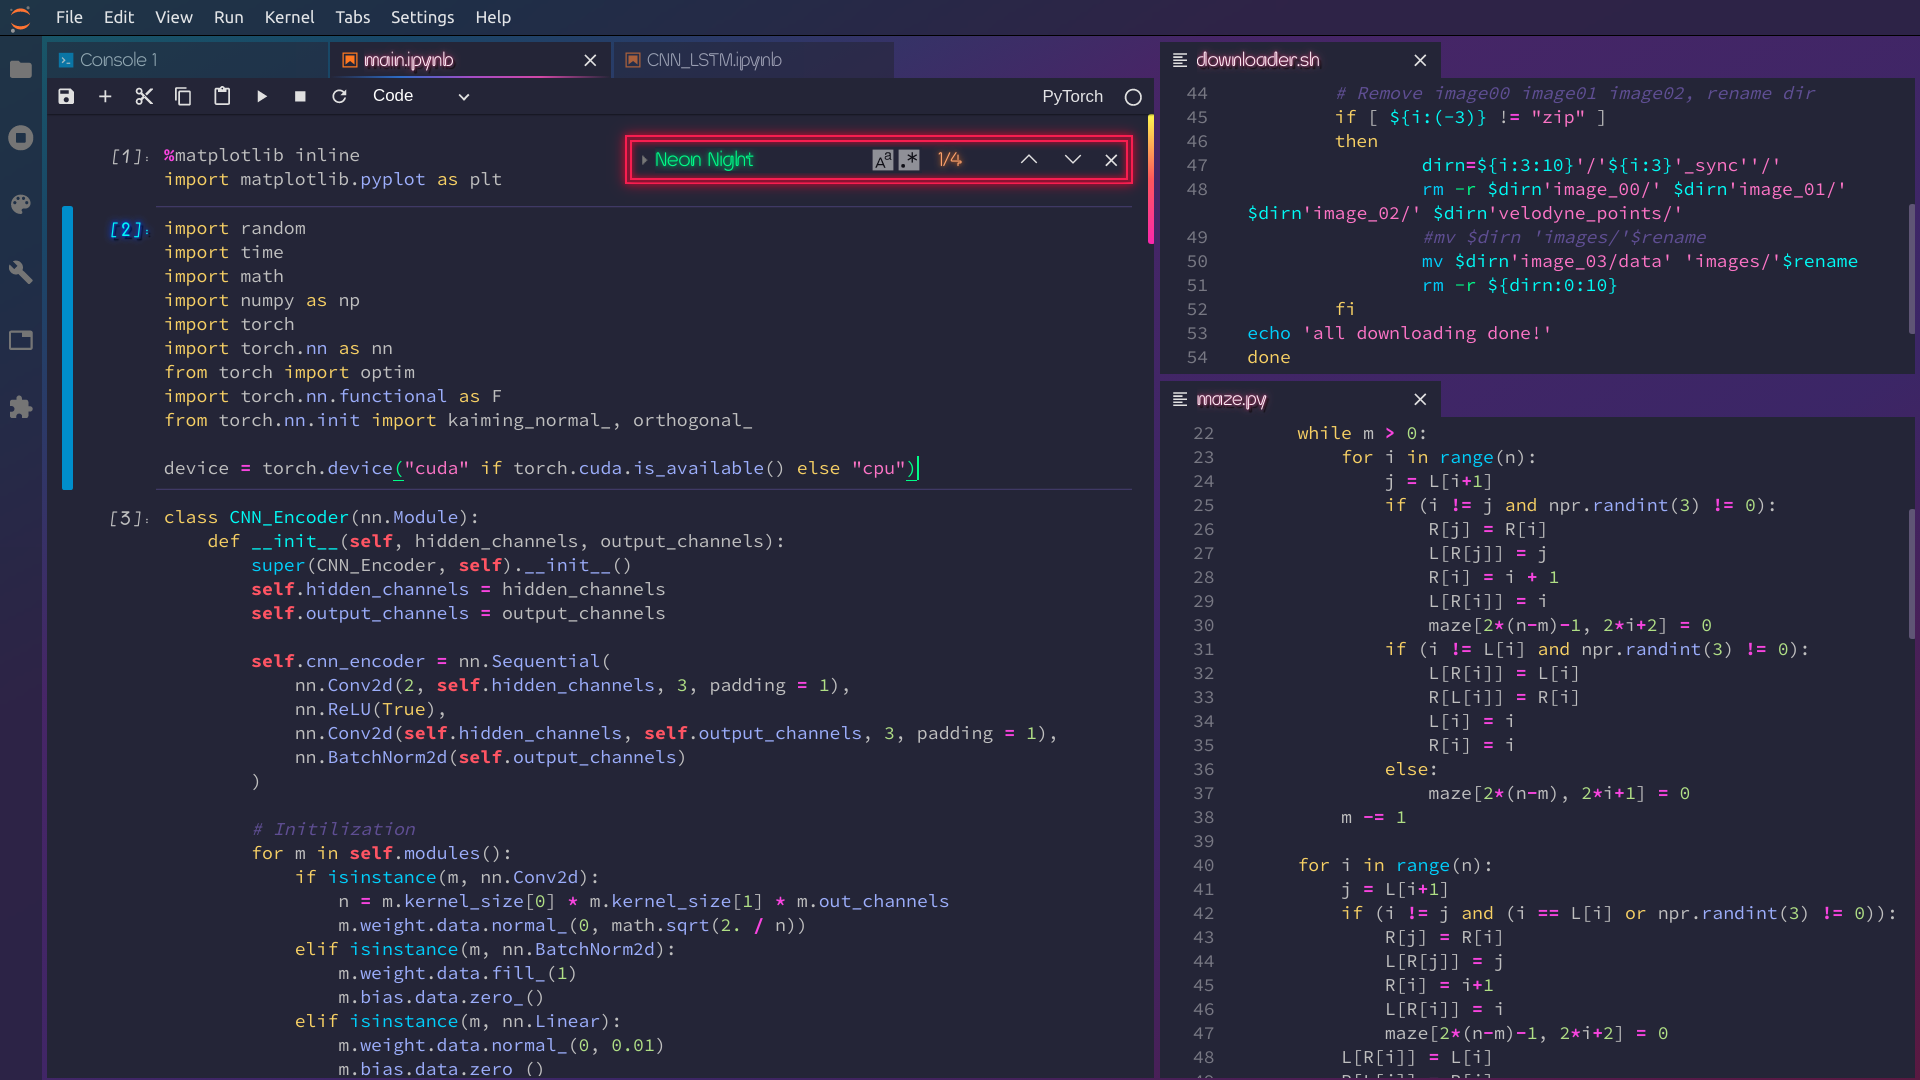
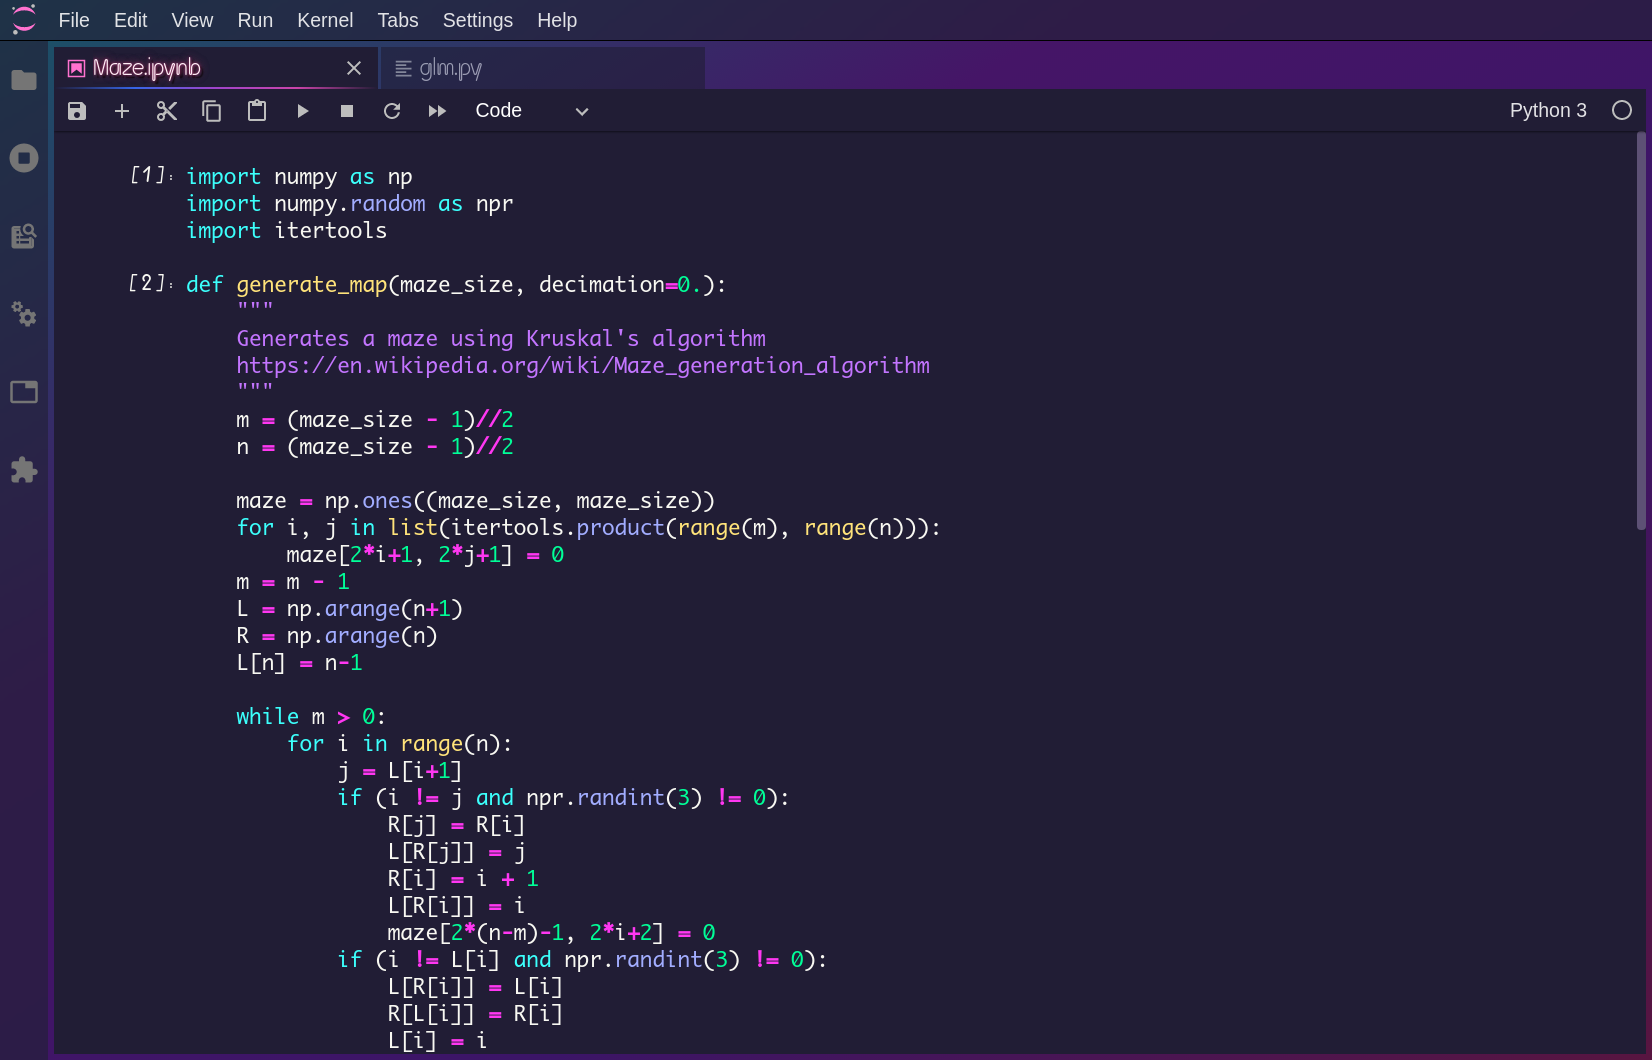
New color scheme

diff --git a/style/variables.css b/style/variables.css
@@ -27,25 +27,25 @@ all of MD as it is not optimized for dense, information rich UIs.
 :root {
   /* Basic color scheme*/
    --neon-night-red: #ff5761;
-   --neon-night-blue0: #00ccff;
-   --neon-night-blue1: #008bce;
-   --neon-night-yellow: #ecd167;
-   --neon-night-green0:#00ff80;
-   --neon-night-green1:#b3e17f;
-   --neon-night-cyan:#36f9f6;
-   --neon-night-peach0: #ff63a6;
-   --neon-night-peach1: #cb4d8e;
+   --neon-night-blue0: #51cdff;
+   --neon-night-blue1: #00acff;
+   --neon-night-yellow: #ffe37a;
+   --neon-night-green0:#00ff98;
+   --neon-night-green1:#c4f68c;
+   --neon-night-cyan:#3cfffc;
+   --neon-night-peach: #ff63a6;
    --neon-night-pink: #ff8c8c;
-   --neon-night-purple0:#ef38e3;
+   --neon-night-purple0:#ff37f2;
    --neon-night-purple1:#a2adff;
    --neon-night-purple2:#ff72cf;
    --neon-night-purple3:#DF81FC;
-   --neon-night-purple4:#604a96;
+   --neon-night-purple4:#696092;
+   --neon-night-purple5:#c375ff;
    --neon-night-orange:#ff9246;
-   --neon-night-fg0:#bfbfbf;
-   --neon-night-bg0: #26243d;
+   --neon-night-fg0:#F8F8F2;
+   --neon-night-bg0: #211d35;
    --neon-night-bg1: #302a46;
-   --neon-night-bg2: hsl(250, 23%, 25%);
+   --neon-night-bg2: #3a2e6b;
 
    --neon-night-text-shadow0: 0 0 2px #0225ff, 0 0 6px #0225ff, 0 0 6px #0225ff, 2px 2px 1px #000;
    --neon-night-text-shadow1: 0 0 2px #c10165, 0 0 6px #c10165, 0 0 6px #c10165, 2px 2px 1px #000;
@@ -53,7 +53,7 @@ all of MD as it is not optimized for dense, information rich UIs.
    --jp-private-horizontal-tab-height: 28px;
 
   /* Elevation
-   *
+   *#26243d
    * We style box-shadows using Material Design's idea of elevation. These particular numbers are taken from here:
    *
    * https://github.com/material-components/material-components-web
@@ -224,7 +224,7 @@ all of MD as it is not optimized for dense, information rich UIs.
    */
 
   --jp-layout-color0: var(--neon-night-bg0);
-  --jp-layout-color1: #211d35;
+  --jp-layout-color1: var(--neon-night-bg0);
   --jp-layout-color2: var(--neon-night-bg2);
   --jp-layout-color3: var(--neon-night-bg2);
   --jp-layout-color4: var(--neon-night-orange);
@@ -244,7 +244,7 @@ all of MD as it is not optimized for dense, information rich UIs.
   /* Brand/accent */
 
   --jp-brand-color0: var(--neon-night-blue0);
-  --jp-brand-color1: #3a2e6b;
+  --jp-brand-color1: var(--neon-night-bg2);
   --jp-brand-color2: var(--md-blue-300);
   --jp-brand-color3: var(--md-blue-100);
   --jp-brand-color4: var(--md-blue-50);
@@ -258,8 +258,8 @@ all of MD as it is not optimized for dense, information rich UIs.
 
   --jp-warn-color0: var(--neon-night-purple2);
   --jp-warn-color1: var(--neon-night-red);
-  --jp-warn-color2: var(--neon-night-peach0);
-  --jp-warn-color3: var(--neon-night-peach1);
+  --jp-warn-color2: var(--neon-night-peach);
+  --jp-warn-color3: var(--neon-night-peach);
 
   --jp-error-color0: var(--md-red-700);
   --jp-error-color1: var(--md-red-500);
@@ -345,13 +345,13 @@ all of MD as it is not optimized for dense, information rich UIs.
 
   /* Input field styles */
 
-  --jp-input-box-shadow: inset 0px -1px 0 0px #7b5ccc50, inset 0px 1px 0 0px #7b5ccc50;
+  --jp-input-box-shadow: inset 0px -1px 0 0px var(--jp-mirror-editor-comment-color), inset 0px 1px 0 0px var(--jp-mirror-editor-comment-color);
   --jp-input-active-background: var(--neon-night-bg1);
   --jp-input-hover-background: var(--neon-night-bg1);
   --jp-input-background: var(--neon-night-bg1);
   --jp-input-border-color: var(--jp-border-color1);
   --jp-input-active-border-color: var(--jp-brand-color1);
-  --jp-input-active-box-shadow-color: inset 0px -1px 0 0px #7b5ccc50, inset 0px 1px 0 0px #7b5ccc50;
+  --jp-input-active-box-shadow-color: inset 0px -1px 0 0px var(--jp-mirror-editor-comment-color), inset 0px 1px 0 0px var(--jp-mirror-editor-comment-color);
 
   /* General editor styles */
 
@@ -361,28 +361,28 @@ all of MD as it is not optimized for dense, information rich UIs.
 
   /* Code mirror specific styles */
 
-  --jp-mirror-editor-keyword-color: var(--neon-night-yellow);
+  --jp-mirror-editor-keyword-color: var(--neon-night-cyan);
   --jp-mirror-editor-atom-color: var(--neon-night-yellow);
-  --jp-mirror-editor-number-color: var(--neon-night-green1);
-  --jp-mirror-editor-def-color: var(--neon-night-cyan);
+  --jp-mirror-editor-number-color: var(--neon-night-green0);
+  --jp-mirror-editor-def-color: var(--neon-night-yellow);
   --jp-mirror-editor-variable-color: var(--neon-night-fg0);
-  --jp-mirror-editor-variable-2-color: var(--neon-night-pink);
+  --jp-mirror-editor-variable-2-color: var(--neon-night-purple2);
   --jp-mirror-editor-variable-3-color: var(--neon-night-orange);
   --jp-mirror-editor-punctuation-color: var(--neon-night-purple1);
   --jp-mirror-editor-property-color: var(--neon-night-purple1);
   --jp-mirror-editor-operator-color: var(--neon-night-purple0);
   --jp-mirror-editor-comment-color: var(--neon-night-purple4);
-  --jp-mirror-editor-string-color: var(--neon-night-purple2);
-  --jp-mirror-editor-string-2-color:#b870ff;
-  --jp-mirror-editor-meta-color: #b870ff;
-  --jp-mirror-editor-qualifier-color: var(--neon-night-peach0);
-  --jp-mirror-editor-builtin-color: var(--neon-night-blue0);
+  --jp-mirror-editor-string-color: var(--neon-night-purple5);
+  --jp-mirror-editor-string-2-color:var(--neon-night-green1);
+  --jp-mirror-editor-meta-color: var(--neon-night-purple0);
+  --jp-mirror-editor-qualifier-color: var(--neon-night-pink);
+  --jp-mirror-editor-builtin-color: var(--neon-night-yellow);
   --jp-mirror-editor-bracket-color: var(--neon-night-green0);
   --jp-mirror-editor-tag-color: var(--neon-night-cyan);
   --jp-mirror-editor-attribute-color: var(--neon-night-green0);
-  --jp-mirror-editor-header-color: var(--neon-night-peach0);
+  --jp-mirror-editor-header-color: var(--neon-night-purple2);
   --jp-mirror-editor-quote-color: var(--neon-night-cyan);
-  --jp-mirror-editor-link-color: var(--neon-night-purple1);
+  --jp-mirror-editor-link-color: var(--neon-night-blue0);
   --jp-mirror-editor-error-color: var(--neon-night-red);
   --jp-mirror-editor-hr-color: #999;
 

diff --git a/style/style.css b/style/style.css
@@ -95,8 +95,7 @@ div.CodeMirror span.CodeMirror-nonmatchingbracket {
   font-weight: normal;
 }
 
-.jp-Cell .cm-s-jupyter span.cm-variable-2 {
-  color: var(--neon-night-red);
+.cm-s-jupyter span.cm-variable-2 {
   font-weight: bold;
 }
 
@@ -123,6 +122,9 @@ div.CodeMirror span.CodeMirror-nonmatchingbracket {
   margin-top: 8px;
 }
 
+.jp-CodeCell.jp-mod-outputsScrolled .jp-Cell-outputArea {
+  box-shadow: none;
+}
 
 /* Notebook prompt */
 .jp-InputPrompt {
@@ -165,7 +167,7 @@ div.CodeMirror span.CodeMirror-nonmatchingbracket {
 .jp-Cell.jp-mod-active .jp-OutputCollapser.jp-Cell-outputCollapser,
 .jp-OutputCollapser.jp-Cell-outputCollapser.jp-Collapser, 
 .jp-OutputCollapser.jp-Cell-outputCollapser.jp-Collapser:hover{
-  background: var(--neon-night-peach1);
+  background: var(--neon-night-purple2);
 }
 
 .jp-Cell.jp-mod-active .jp-InputCollapser.jp-Cell-inputCollapser,
@@ -185,16 +187,16 @@ div.CodeMirror span.CodeMirror-nonmatchingbracket {
   box-shadow: 0 0 1px, 0 0 15px #c10165, 0 0 5px 0.1px #c10165, inset 0 0 1px 0.2px #c10165;
 }
 
-.cm-s-jupyter span.cm-def {
+span.cm-keyword {
   transition: text-shadow cubic-bezier(0, 0.2, 0, 0.2) 0.2s;
 }
 
-.cm-s-jupyter span.cm-def:hover {
+span.cm-keyword:hover {
   text-shadow: var(--neon-night-text-shadow0);
 }
 
 /* Let's lit neon in the presentation mode~ */
-.jp-mod-presentationMode .jp-Notebook .cm-s-jupyter span.cm-def {
+.jp-mod-presentationMode .jp-Notebook span.cm-keyword {
   text-shadow: var(--neon-night-text-shadow0);
 }
 
@@ -210,10 +212,6 @@ div.CodeMirror span.CodeMirror-nonmatchingbracket {
 }
 
 /* Top, side, bottom bar */
-.jp-FileBrowser {
-  color: var(--jp-ui-font-color2);
-}
-
 #jp-top-panel {
   border-bottom: 1px solid #000;
 }
@@ -226,9 +224,6 @@ div.CodeMirror span.CodeMirror-nonmatchingbracket {
   fill: var(--jp-inverse-layout-color2);
 }
 
-#jp-bottom-panel .f1235lqo {
-  color: var(--jp-ui-font-color2);
-}
 
 .jp-SideBar .lm-TabBar-tab:hover:not(.lm-mod-current) .jp-icon3[fill]{
   fill: var(--jp-inverse-layout-color2);
@@ -240,7 +235,6 @@ div.CodeMirror span.CodeMirror-nonmatchingbracket {
 }
 
 .CodeMirror-linenumber {
-  color: var(--jp-ui-font-color3);
   padding: 0 16px;
 }
 
@@ -343,7 +337,7 @@ div.CodeMirror span.CodeMirror-nonmatchingbracket {
 }
 
 .jp-RenderedText pre .ansi-green-intense-fg {
-  color: var(--neon-night-peach0);
+  color: var(--neon-night-purple2);
 }
 
 .jp-RenderedText pre .ansi-cyan-fg {
@@ -352,10 +346,6 @@ div.CodeMirror span.CodeMirror-nonmatchingbracket {
 
 .jp-DirListing-item.jp-mod-running .jp-DirListing-itemIcon:before {
   color: var(--neon-night-green0);
-}
-
-.jp-extensionmanager-buildprompt {
-  color: var(--jp-ui-font-color1);
 }
 
 #setting-editor .jp-SettingsRawEditor .jp-Toolbar {

diff --git a/README.md b/README.md
@@ -11,12 +11,18 @@ A flat, 80's neon inspired theme for JupyterLab.
 
 This theme is hightly inspired by artworks of 80's Neon, Synthwave and Cyberpunk. It is optimized for **long-term use** but colorful and cooool.
 
+## Big update
+There is a big update for the color scheme since version 3.0.0. If you are old users and don't like the new style, please find the archive [here](https://github.com/yeebc/jupyterlab-neon-theme/tree/archive_version2.x). However, unfortunately it would not be maintained anymore.
 
 ## Bonuses
-1. Search tool + neon billboard
-2. Collapser + neon light
-3. Scrollbar + FM-84's "Atlas"  (compatible with webKit browsers)
-4. A surprise in the presentation mode (**Top menu** --> **View** --> **Presention mode**)
+1. Search tool * neon billboard
+<img src="https://raw.githubusercontent.com/yeebc/jupyterlab-neon-theme/master/screenshots/Billboard.png" />
+2. Collapser * neon light
+<img src="https://raw.githubusercontent.com/yeebc/jupyterlab-neon-theme/master/screenshots/Collapser.png" />
+3. Scrollbar * FM-84's "Atlas"  (only compatible with webKit browsers)
+<img src="https://raw.githubusercontent.com/yeebc/jupyterlab-neon-theme/master/screenshots/Scrollbar.png" />
+4. Presentation mode (**Top menu** --> **View** --> **Presention mode**)
+<img src="https://raw.githubusercontent.com/yeebc/jupyterlab-neon-theme/master/screenshots/Presentation.png" />
 
 
 ## Customize
